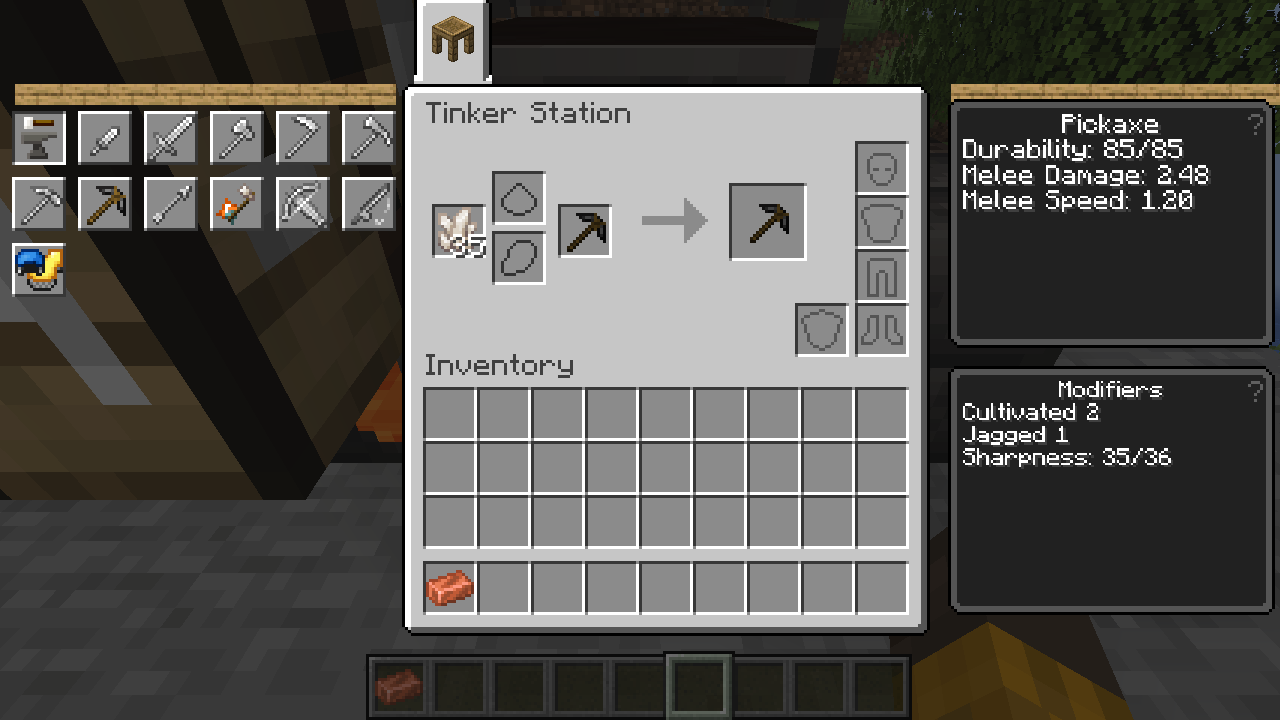
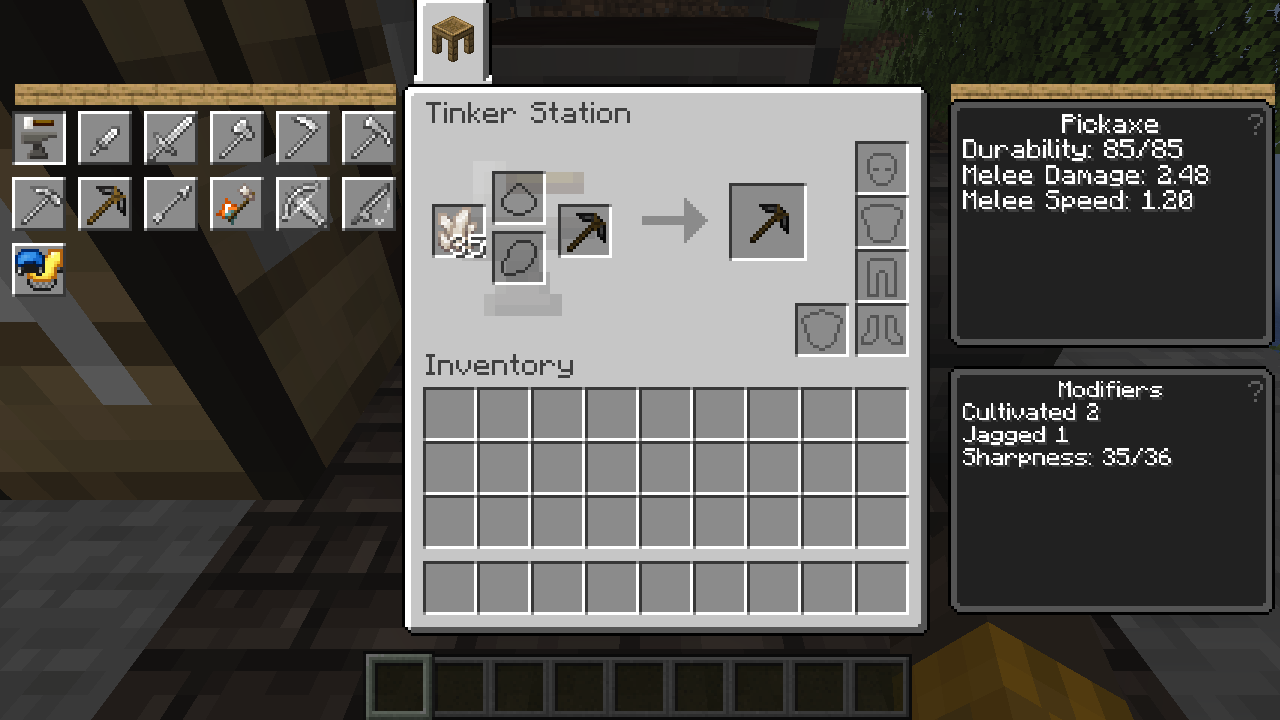
Show verified Station layout decoration

diff --git a/tconstruct/docs/gui-review.md b/tconstruct/docs/gui-review.md
@@ -5,7 +5,7 @@ The reference is the fixed Tinkers' Construct source and its original assets. Th
 | Screen | Source-backed paths and representative checks | Known gaps or checks still needed |
 | --- | --- | --- |
 | Part Builder | Source background, pattern grid, item slots, information panel and side-inventory layout; shared drawing and hit positions. A chest input, part result and save/reload passed on Linux; chest and hopper scrolling have representative earlier checks. | Custom-named side inventories do not show their custom names. Recheck current pattern, tooltip, side-inventory scrolling and the 960 × 540 / 1280 × 720 layouts after the final changes. |
-| Tinker Station | Source layout coordinates, result location, tab buttons, equipment/offhand slots, name input and information panels. Result rendering and clicks passed at both sizes; representative tab and equipment interactions passed locally and over LAN. | Source dormant input slots containing items should appear in the still-filled row and allow removal only; layout selection must first be synchronized and enforced on the server for safe ordinary and Shift interactions. Source armor-stand preview is absent. The large layout icon and variable-width panel decorations have been added but not yet validated in a game. Verify repair/part swap and representative tooltips after the final build. |
+| Tinker Station | Source layout coordinates, result location, tab buttons, equipment/offhand slots, name input and information panels. Result rendering and clicks passed at both sizes; representative tab and equipment interactions passed locally and over LAN. | Source dormant input slots containing items should appear in the still-filled row and allow removal only; layout selection must first be synchronized and enforced on the server for safe ordinary and Shift interactions. Source armor-stand preview is absent. The large layout icon and variable-width panel decorations were checked in a 1280 × 720 Linux game; the 960 × 540 rendering needs a further check. Verify repair/part swap and representative tooltips after the final build. |
 | Melter | Source background, item and fuel slots, fluid and heat bars, tank/fuel tooltips and held-bucket clicks share the machine code. Liquid-fuel melting and bucket transfers passed locally and over LAN; the Lava temperature tooltip was checked in game. | More source fuel and heat status states and the second screen size need representative checks. Source comments claim empty-space left click inserts a container, but the fixed revision's `ClickableTankModule.tryClick` and `MelterContainerMenu.clickMenuButton` send/interpret left as fill and right as empty even in empty space; the implementation follows that executable source behavior. |
 | Smeltery and Foundry | Source background, slots, fluid layers, heat/fuel indicator, capacity and mode tooltips, scrolling and item hit positions use shared code. Fuel and copper heat displays were seen in the Linux game, including a LAN guest; a Foundry capacity tooltip was seen. | Right-click fluid injection and fuel-gauge bucket transfers were just added: representative normal and LAN tests are in progress. Test pagination/scrolling and heat/tooltips at both requested sizes with representative content. |
 
